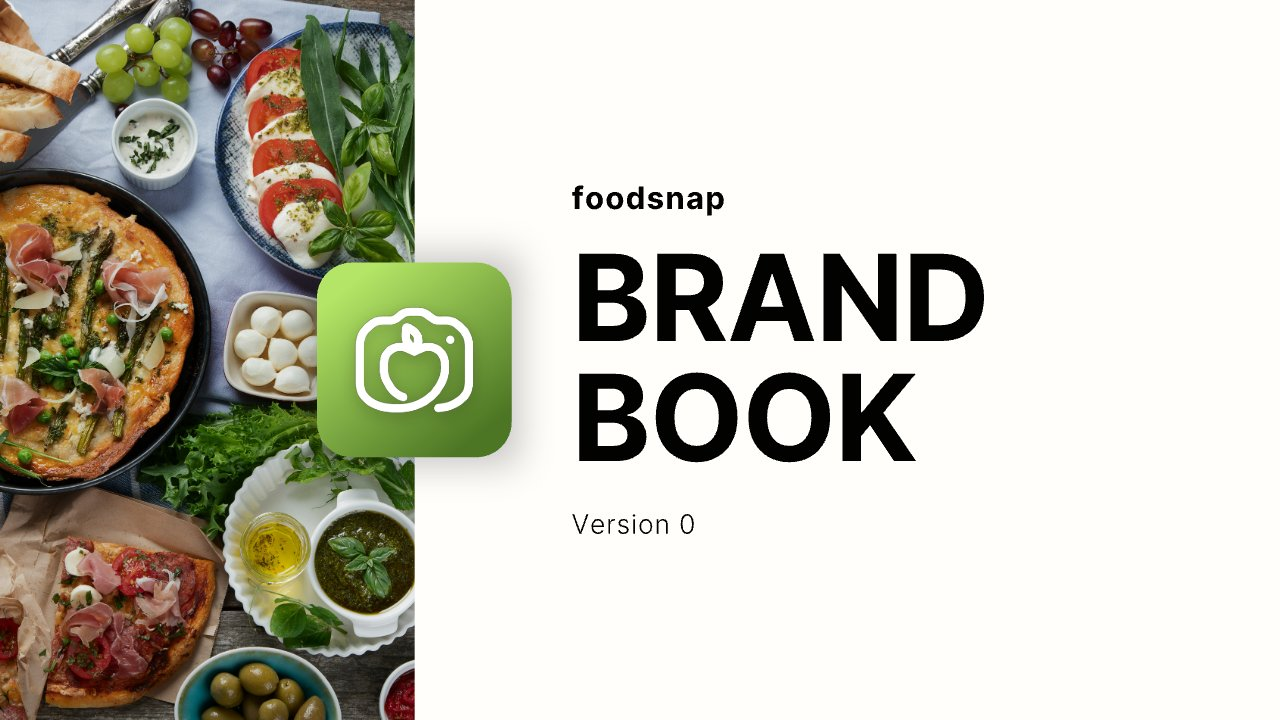
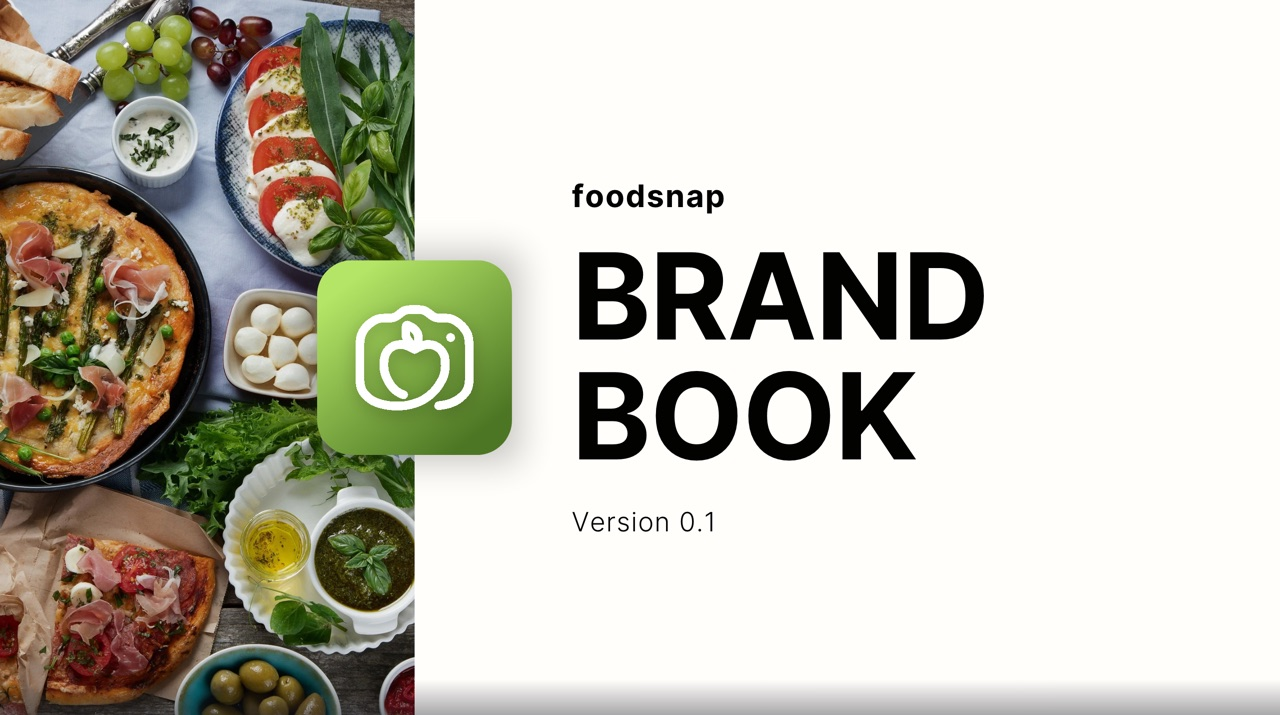
Visuals: add al/ready wordmark, refresh foodsnap brand book cover (#163)
- New visual: al/ready wordmark (concept, 2026), image from the
  presentation frame with construction guides
- brand-guide.jpg regenerated from the updated Canva design
  (now Version 0.1), clean render via embed view
- Cache-bust bump for js/data.js

diff --git a/js/data.js b/js/data.js
@@ -300,6 +300,18 @@ window.LV_DATA = {
       link: "https://www.canva.com/design/DAFs0MtePKA/view"
     },
     {
+      slug: "already-wordmark",
+      title: "al/ready wordmark",
+      context: "Concept",
+      type: "Wordmark · Naming",
+      year: "2026",
+      hue: 5,
+      thumb: "images/visuals/already-wordmark.jpg",
+      blurb: "A wordmark for al/ready, a to-do app concept: the app that got it all done, already. The slash splits the name into “all” and “ready”, and the presentation keeps the red construction guides visible.",
+      embed: "",
+      link: ""
+    },
+    {
       slug: "aerial-yoga-site",
       title: "Aerial Yoga microsite",
       context: "Personal project",

diff --git a/index.html b/index.html
@@ -919,7 +919,7 @@
     <p class="wip-note-sign">Lisanne :)</p>
   </aside>
 
-  <script src="js/data.js?v=2026-08-01-12"></script>
+  <script src="js/data.js?v=2026-08-02-1"></script>
   <script src="js/app.js?v=2026-08-01-7"></script>
   <script src="js/wip.js?v=2026-06-12-3"></script>
   <script src="js/wall-of-fame.js?v=2026-06-12-4"></script>
